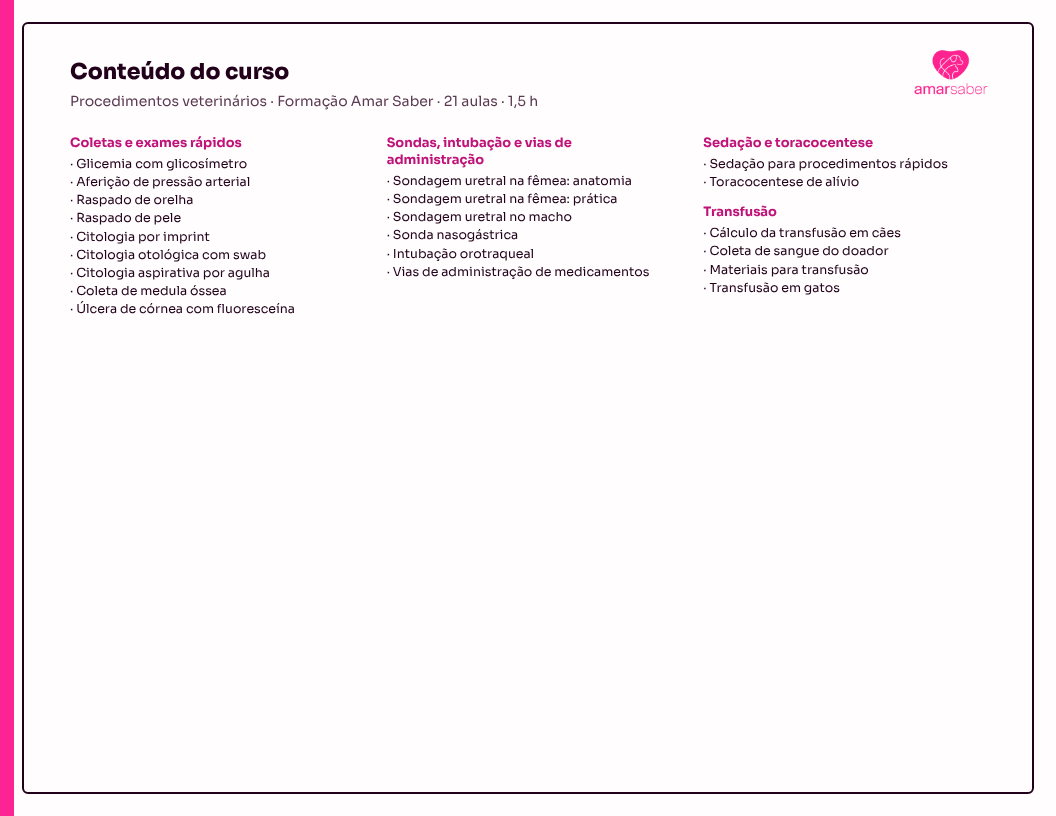
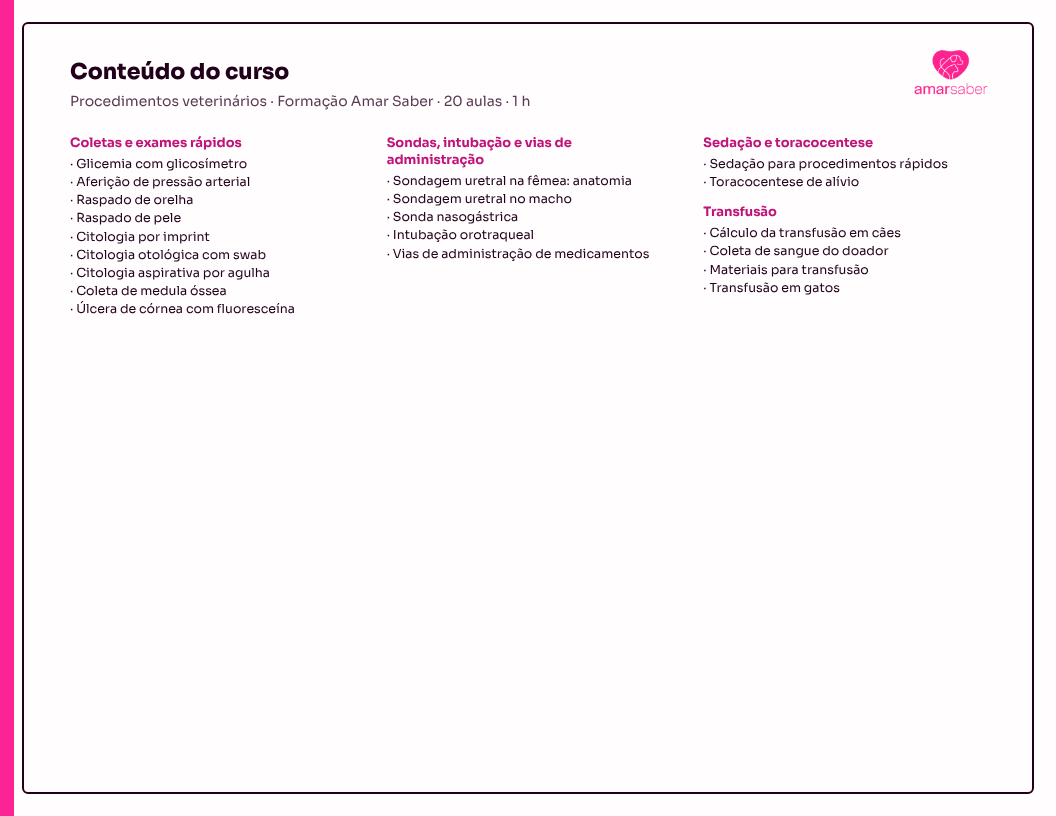
Formação Completa: aula prática do Rodrigo pendente e versão editada da aula do hemograma
O envio da aula prática do Rodrigo ao Tella não terminou (arquivo original indisponível),
então ela sai do inventário até ser subida de novo (111 aulas novas). No hemograma fica a
gravação editada de 'Como o hemograma é dividido'. Capas e certificados refeitos.

Claude-Session: https://claude.ai/code/session_012pmajsy7DujP12Ayd3CLx2

Changed region(s): [[0.375, 0.2145, 0.625, 0.337], [0.4375, 0.1225, 0.5, 0.1532]]

diff --git a/FORMACAO-MEMBERKIT.md b/FORMACAO-MEMBERKIT.md
@@ -2,17 +2,17 @@
 
 Fonte: playlists e vídeos do Tella (workspace da Dra.), divisão das pastas do Drive. Cada aula do Memberkit recebe o vídeo do Tella por código de incorporação (o mesmo formato das aulas do Atendimento) e a descrição abaixo. Os títulos não levam nome de quem apresenta.
 
-**Total: 7 cursos, 135 aulas, 9.3 h de vídeo.** Sem o Atendimento (que quem compra a Black já recebe): 6 cursos, 112 aulas, 7.1 h.
+**Total: 7 cursos, 134 aulas, 9,2 h de vídeo.** Sem o Atendimento (que quem compra a Black já recebe): 6 cursos, 111 aulas, 7,0 h.
 
 | Curso | Sigla | Aulas | Duração | Carga horária no certificado |
 |---|---|---|---|---|
-| Atendimento Extraordinário | ATEND | 23 | 2.3 h | 2,5 h |
-| Entre o plantão e o medo | PLANT | 19 | 2.0 h | 2 h |
-| Leitura de hemograma | HEMO | 29 | 1.1 h | 1,5 h |
-| Clínica de felinos | FELIN | 8 | 0.8 h | 1 h |
-| Casos clínicos | CASOS | 25 | 1.2 h | 1,5 h |
-| Procedimentos veterinários | PROC | 21 | 1.0 h | 1,5 h |
-| Cálculos, exames e condutas | CALC | 10 | 0.9 h | 1 h |
+| Atendimento Extraordinário | ATEND | 23 | 2,3 h | 2,5 h |
+| Entre o plantão e o medo | PLANT | 19 | 2,0 h | 2 h |
+| Leitura de hemograma | HEMO | 29 | 1,1 h | 1,5 h |
+| Clínica de felinos | FELIN | 8 | 0,8 h | 1 h |
+| Casos clínicos | CASOS | 25 | 1,2 h | 1,5 h |
+| Procedimentos veterinários | PROC | 20 | 0,9 h | 1 h |
+| Cálculos, exames e condutas | CALC | 10 | 0,9 h | 1 h |
 
 Carga horária: duração real dos vídeos arredondada para cima, de meia em meia hora.
 
@@ -86,7 +86,7 @@ O hemograma lido do jeito que se usa na clínica: eritrograma, plaquetas e leuco
 |---|---|---|---|---|
 | 1 | Boas-vindas | O que você vai conseguir ler no hemograma ao fim do curso. | 1:08 | `vid_cmvwm8ckp007d02p57agn7rqn` |
 | 2 | Quem ensina: Dra. Maria Paula | A história da Dra. Maria Paula e como o Amar Saber nasceu da rotina da clínica. | 2:29 | `vid_cmvx45d4900kz07l3ahwshbts` |
-| 3 | Como o hemograma é dividido | Eritrograma, plaquetograma e leucograma: o que cada parte mostra. | 1:42 | `vid_cmvwn7eni039707jv6oxv9vi5` |
+| 3 | Como o hemograma é dividido | Eritrograma, plaquetograma e leucograma: o que cada parte mostra. | 1:24 | `vid_cmvwmvcbj03uj02no01k4a0l2` |
 | 4 | Medula óssea: onde as células nascem | Como a medula produz as células do sangue e como o organismo regula essa produção. | 0:58 | `vid_cmvx4b1mx001508l50eir06d5` |
 
 ### Eritrograma
@@ -238,11 +238,10 @@ Os procedimentos do dia a dia mostrados na prática: coletas e exames rápidos, 
 | # | Título | Descrição | Duração | Vídeo no Tella |
 |---|---|---|---|---|
 | 1 | Sondagem uretral na fêmea: anatomia | O desenho do trato reprodutor da cadela para achar o óstio uretral. | 1:15 | `vid_cmvzwjxgo008o02nt01xu0oqk` |
-| 2 | Sondagem uretral na fêmea: prática | O procedimento na prática. | 5:33 | `vid_cmw0zfk5400pu02kt3a0a9w6t` |
-| 3 | Sondagem uretral no macho | Da escolha da sonda à coleta de urina. | 3:50 | `vid_cmw47zo8o00a408jn7gcfdawu` |
-| 4 | Sonda nasogástrica | A passagem da sonda num paciente no pós-cirúrgico com vômitos. | 3:56 | `vid_cmw53yy4h007j02qwb4534h6d` |
-| 5 | Intubação orotraqueal | Passo a passo da intubação do cão para anestesia e emergência. | 3:09 | `vid_cmw484i1t00hk08l0ee0pdku4` |
-| 6 | Vias de administração de medicamentos | Intramuscular, subcutânea e endovenosa em cães e gatos. | 5:01 | `vid_cmw47xx01009y08le6vbre46t` |
+| 2 | Sondagem uretral no macho | Da escolha da sonda à coleta de urina. | 3:50 | `vid_cmw47zo8o00a408jn7gcfdawu` |
+| 3 | Sonda nasogástrica | A passagem da sonda num paciente no pós-cirúrgico com vômitos. | 3:56 | `vid_cmw53yy4h007j02qwb4534h6d` |
+| 4 | Intubação orotraqueal | Passo a passo da intubação do cão para anestesia e emergência. | 3:09 | `vid_cmw484i1t00hk08l0ee0pdku4` |
+| 5 | Vias de administração de medicamentos | Intramuscular, subcutânea e endovenosa em cães e gatos. | 5:01 | `vid_cmw47xx01009y08le6vbre46t` |
 
 ### Sedação e toracocentese
 
@@ -296,8 +295,9 @@ O que trava muita gente na rotina: cálculo de dose (oral, injetável, em gramas
 |---|---|
 | `vid_cmvx433y400pr02rz1a5e6fua` | Monócitos: duplicado (mesma transcrição) |
 | `vid_cmvwn9ugq00m708jp60xchpwd` | "Hchm": duplicado do CHCM (mesma transcrição) |
-| `vid_cmvx4k4l100nk08l17rclfihr` | "Neutrofilos": outra gravação do "Neutrofilos segmentados" (97% igual; ficou a versão que fecha com neutrofilia e neutropenia) |
-| `vid_cmvwmvcbj03uj02no01k4a0l2` | "Como o hemograma é dividido": outra gravação do "eritograma" (mesma abertura; ficou a mais completa) |
+| `vid_cmvx4k4l100nk08l17rclfihr` | "Neutrofilos": a mesma aula do "Neutrofilos segmentados", só que cortada antes do fim (falta o trecho de neutrofilia e neutropenia) |
+| `vid_cmw0zfk5400pu02kt3a0a9w6t` | "aula rodrigo pratica": PENDENTE. O envio ao Tella em 03/11 não terminou (o arquivo original não está no Tella nem no Drive). Volta como "Sondagem uretral na fêmea: prática" quando o arquivo for subido de novo |
+| `vid_cmvwn7eni039707jv6oxv9vi5` | "eritograma": mesma aula do "Como o hemograma é dividido", na gravação sem edição (102 s, com uma frase repetida); ficou a editada (84 s) |
 | `vid_cmw53xncc004008l2g2pbbsk6` | "Eosinófilo" (subido hoje): duplicado do "Eosinofilos" |
 | `vid_cmvzwizcv000502nt7jfc0knr` | "calculo dose" (02/11): duplicado do "Calculo dipirona" |
 | `vid_cmw0yx0pr002v08l59hwhhf08` | "calculo medicacao oral" (03/11): duplicado do de 06/11 |
@@ -307,13 +307,13 @@ O que trava muita gente na rotina: cálculo de dose (oral, injetável, em gramas
 
 ## Para aprovar
 
-1. **Sondagem uretral na fêmea: prática** (`vid_cmw0zfk5400pu02kt3a0a9w6t`, a aula prática do Rodrigo).
-   - O vídeo está "em conversão" no Tella desde 03/11: não tem transcrição nem miniatura, e provavelmente não toca.
-   - O título e o lugar no curso foram deduzidos da aula teórica. Precisa ser subido de novo.
-   - O arquivo não está no Drive.
-2. **Duas gravações quase iguais no hemograma.** Ficou uma de cada; a outra está na tabela "Fora do curso":
-   - "Neutrofilos" e "Neutrofilos segmentados";
-   - "eritograma" e "Como o hemograma é dividido".
+1. **Sondagem uretral na fêmea: prática** (aula prática do Rodrigo) ficou **fora** por enquanto. O envio dela ao Tella
+   em 03/11 não terminou: o arquivo original não está no Tella (dá erro ao baixar) nem no Drive. Quando alguém subir
+   o arquivo de novo, a aula volta ao Procedimentos veterinários, depois da aula de anatomia.
+2. **Duas aulas do hemograma tinham duas versões**, conferidas pela transcrição completa:
+   - "Neutrofilos" é a mesma aula do "Neutrofilos segmentados", só que cortada antes do fim. Ficou a completa.
+   - "eritograma" e "Como o hemograma é dividido" são a mesma aula. A primeira é a gravação sem edição, com uma
+     frase repetida (102 s); ficou a editada (84 s).
 3. **Procedimentos × vídeos novos.** Os vídeos de 06/11 que são procedimentos foram para o curso Procedimentos
    veterinários: sondagem no macho, intubação, vias de administração, coletas, pressão e transfusão. O 7º curso ficou
    com cálculo de dose, exames laboratoriais e comunicação. Assim cada procedimento fica num lugar só.

diff --git a/FORMACAO-UPSELL.md b/FORMACAO-UPSELL.md
@@ -28,7 +28,7 @@ O mesmo vale no checkout da Black e no do downsell.
 | No texto | Fonte |
 |---|---|
 | 7 cursos | os 7 cursos de [FORMACAO-MEMBERKIT.md](FORMACAO-MEMBERKIT.md), os mesmos da Formação na Kiwify |
-| 6 cursos, 112 aulas, cerca de 7 horas | o inventário sem o Atendimento (112 aulas, 7,1 h de vídeo, medido no Tella) |
+| 6 cursos, 111 aulas, cerca de 7 horas | o inventário sem o Atendimento (111 aulas, 7,0 h de vídeo, medido no Tella). Volta a 112 quando a aula prática do Rodrigo for subida de novo |
 | 1 ano de acesso | extensão de 365 dias na assinatura 38676 |
 | certificado em cada curso | os 7 modelos de certificado configurados no Memberkit |
 | 7 dias de garantia | igual à oferta principal |
@@ -42,7 +42,7 @@ O mesmo vale no checkout da Black e no do downsell.
 
 > Você já tem 1 dos 7 cursos da Formação Amar Saber. Leve os outros 6 por R$ 297 (o preço normal da Formação é
 > R$ 697): plantão, leitura de hemograma, clínica de felinos, casos clínicos reais da Amar, procedimentos e cálculo de
-> dose. São 112 aulas curtas, com 1 ano de acesso, certificado em cada curso e 7 dias de garantia. A cobrança é no mesmo
+> dose. São 111 aulas curtas, com 1 ano de acesso, certificado em cada curso e 7 dias de garantia. A cobrança é no mesmo
 > cartão, em 1 clique. Essa condição só aparece aqui.
 
 ## Bumps (Pix e boleto)
@@ -53,7 +53,7 @@ Os dois bumps usam o mesmo texto e só mudam o meio de pagamento.
 |---|---|
 | Nome interno | Black 2026 · Formação Completa (Pix) / (boleto) |
 | Título | Complete a Formação Amar Saber por R$ 297 |
-| Mensagem | O curso do seu pedido é 1 dos 7 cursos da Formação. Marque aqui e leve os outros 6: plantão, hemograma, felinos, casos clínicos reais, procedimentos e cálculo de dose. 112 aulas, 1 ano de acesso, certificado e 7 dias de garantia. Essa condição só aparece aqui. |
+| Mensagem | O curso do seu pedido é 1 dos 7 cursos da Formação. Marque aqui e leve os outros 6: plantão, hemograma, felinos, casos clínicos reais, procedimentos e cálculo de dose. 111 aulas, 1 ano de acesso, certificado e 7 dias de garantia. Essa condição só aparece aqui. |
 | Botão | + Completar a Formação |
 | Preço | de R$ 697 por R$ 297 |
 
